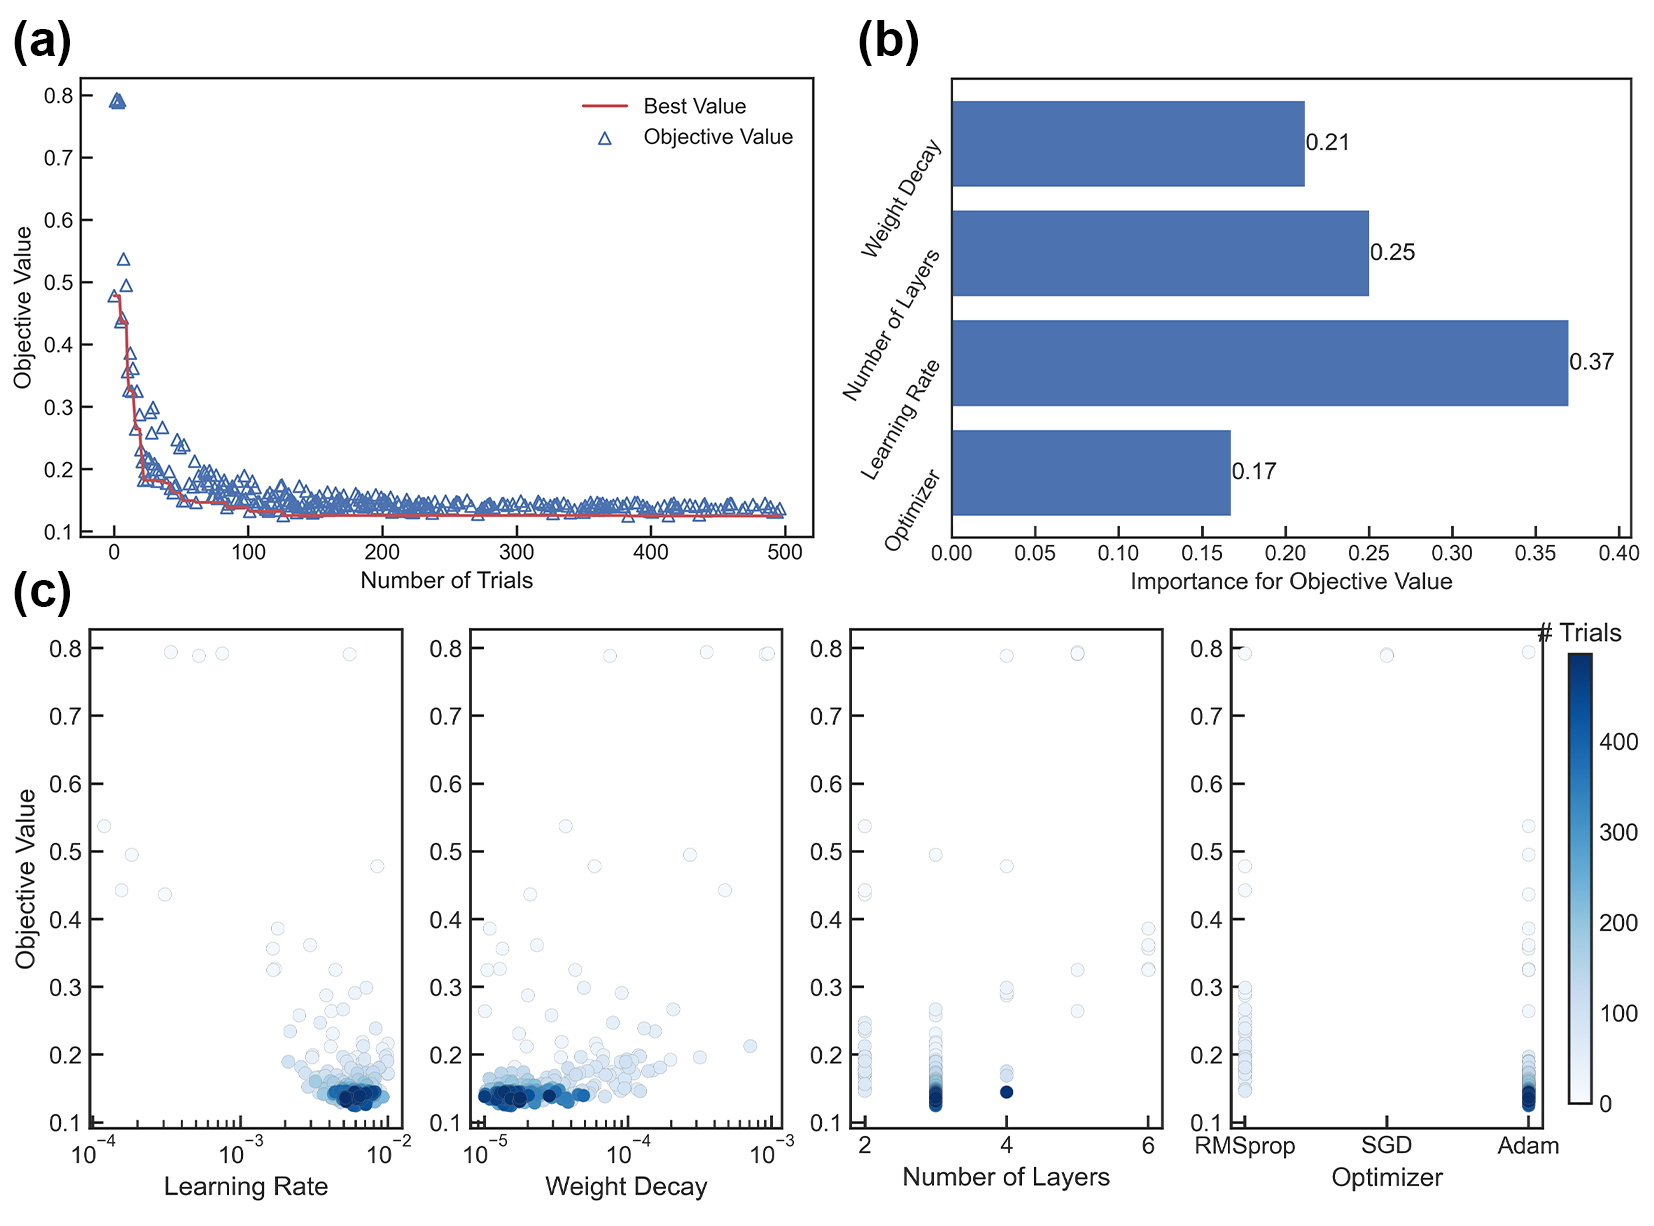
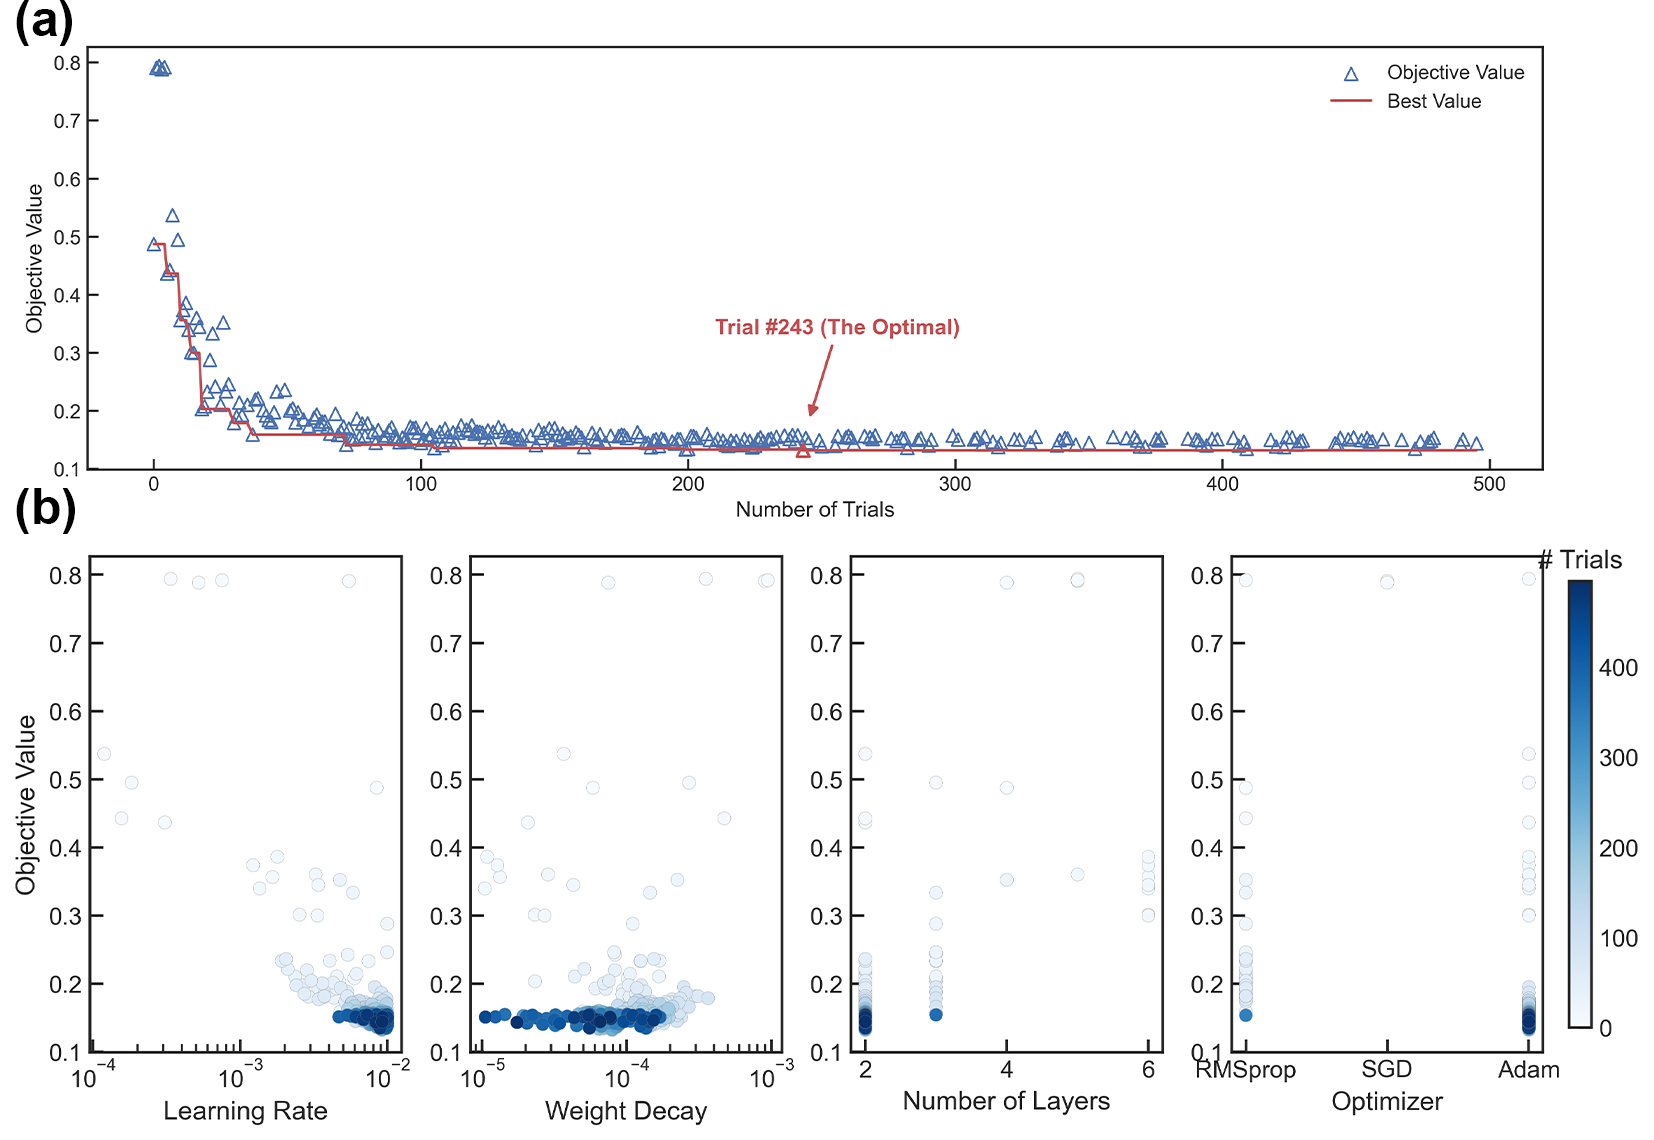
modified:   .DS_Store modified:   README.md modified:   res/demo0_graphical_abstract.png

diff --git a/README.md b/README.md
@@ -1,15 +1,13 @@
 # High-Entropy Materials Design by Integrating the First-Principles Calculations and Machine Learning: a Case Study in the Al-Co-Cr-Fe-Ni System
 
+[![DOI](https://zenodo.org/badge/DOI/10.1007/s44210-024-00041-3.svg)](https://doi.org/10.1007/s44210-024-00041-3)
+
 ## Overview
-The first-principles calculation is widely used in high-entropy materials. However, this approach may consume many computational resources for complex systems, limiting the construction of property maps for the corresponding materials over a full composition range. In this work, the most common Al-Co-Cr-Fe-Ni system (both FCC and BCC) is selected for our investigation. We formulate a materials design strategy that combines first-principles calculation results and machine learning models to establish a robust database of properties (e.g., phase stabilities and elastic constants): starting from unary, binary, ternary, and quaternary, then extending into high-order systems. Analyzing and screening this database can further inspire discovering and designing new high entropy materials. Moreover, the corresponding software was developed to facilitate the use of related persons or institutions.
+High-entropy alloys (HEAs) have drawn significant attention within the materials science community due to their exceptional properties. However, optimizing compositions in these alloys is challenging due to their vast compositional space. Conventional computational methods are constrained by high computational costs, limiting rapid database expansion. In this study, we propose a novel approach that integrates first-principles calculations with machine learning to efficiently explore the Al-Co-Cr-Fe-Ni system, encompassing both face-centered cubic (FCC) and body-centered cubic (BCC) phases. Our approach establishes comprehensive relationships among compositions, phase stability, and elastic properties at 0 K. A comprehensive database and software for this system are developed. Analysis of this database reveals the presence of FCC and BCC phases under specific valence electron concentration (VEC) criteria. Through screening and statistical analysis using a performance index, we quantitatively investigate the brittleness and ductility, facilitating the identification of optimal HEAs candidates. This work enhances our understanding of the HEA properties, offering a promising pathway for materials design and optimization.
 
 ## Workflow
-* Above the iceberg:  
-The training data of properties (e.g., phase stabilities and mechanical properties) is obtained by the first-principles calculation. The rules lying behind the data can be discovered by machine learning.
-* Below the iceberg:  
-The knowledge of HEA over a full composition range can be obtained from well-trained model, and the corresponding software is developed with the knowledge embedded.
 
-    <div align=left><img src='./res/demo0_graphical_abstract.png' alt='' width='700'/></div>
+<div align=left><img src='./res/demo0_graphical_abstract.png' alt='' width='700'/></div>
 
 ## Get Started
 ### Download
@@ -18,69 +16,49 @@ The knowledge of HEA over a full composition range can be obtained from well-tra
 ### Usage Description
 1. Two search modes are available: *Single-Point* and *Advanced*.
 
-    <div align=left><img src='https://raw.githubusercontent.com/aguang5241/HEA_ML/main/res/Fig.7_Software.jpg' alt='' width='700'/></div>
+    <div align=left><img src='./res/Fig.7_Software.jpg' alt='' width='700'/></div>
 
 2. On the *Single-Point* page, you can calculate the predicted properties based on the exact given concentration.
 
-    <div align=left><img src='https://raw.githubusercontent.com/aguang5241/HEA_ML/main/res/single.gif' alt='' width='700'/></div>
+    <div align=left><img src='./res/single.gif' alt='' width='700'/></div>
 
 3. On the *Advanced* page, you can calculate and analyze the predicted properties based on certain given conditions.
 
-    <div align=left><img src='https://raw.githubusercontent.com/aguang5241/HEA_ML/main/res/advanced.gif' alt='' width='700'/></div>
+    <div align=left><img src='./res/advanced.gif' alt='' width='700'/></div>
 
 ## Main Results
 ### Modeling
-* This work uses the latest hyperparameter optimization framework, OPTUNA, to perform automated algorithm-driven ML model tuning. The detailed search space of the hyperparameters involved is listed in the table below.
+* Results of algorithm-driven modeling: (a) optimization history; (b) Optimization results for learning rate, weight decay, number of layers, and optimizers.
 
-    | Objectives | Search space |
-    | :--- | :--- |
-    | Trials number | 0 ~ 500 |
-    | Number of layers | 2 ~ 6 |
-    | Number of nodes | 100 ~ 300 |
-    | Learning rate | 0.0001 ~ 0.01 |
-    | Weight decay | 0.00001 ~ 0.001 |
-    | Optimizer | Adam, SGD, RMSprop |
-
-* Results of algorithm-driven modeling: (a) optimization history; (b) importance plot for difference hyperparameters; and (c) detailed optimization results based on specific hyperparameters.
-
-    <div align=left><img src='https://raw.githubusercontent.com/aguang5241/HEA_ML/main/res/Fig.1_Modeling.jpg' alt='' width='700'/></div>
+    <div align=left><img src='./res/Fig.1_Modeling.jpg' alt='' width='700'/></div>
 
 ### Training
-* The training data of properties (e.g., phase stabilities and mechanical properties) is obtained by the first-principles calculation. The rules lying behind the data can be discovered by machine learning. Analysis of R-values for $C_{11}$ of the BCC with progressive training: (a) unary training and binary testing; (b) unary + binary training and ternary testing; and (c) unary + binary + ternary training and quaternary testing; (d) finalization of the model.
+* A 4-step progressive training approach: (a) unary training and binary testing; (b) unary + binary training and ternary testing; and (c) unary + binary + ternary training and quaternary testing; (d)  Fine-tuning and experimental verifications.
 
-    <div align=left><img src='https://raw.githubusercontent.com/aguang5241/HEA_ML/main/res/Fig.2_Training.jpg' alt='' width='700'/></div>
+    <div align=left><img src='./res/Fig.2_Training.jpg' alt='' width='700'/></div>
 
 ### Prediction
-* The knowledge of HEA over a full composition range can be obtained from well-trained model, and the corresponding software is developed with the knowledge embedded. The predicted phase stabilities and elastic constants of the *FCC and BCC binary systems* are shown below: (a)  $\Delta H^{f}$ of FCC; (b) $\Delta H^{f}$ of BCC; (c) $C_{ij}$ of FCC; and (d) $C_{ij}$ of BCC.
+* The relationship between the VEC and $\Delta H_{f}^{FCC-BCC}$: (a) phase stability, (b) configurational entropy, and (c) statistical frequency of FCC and BCC.
 
-    <div align=left><img src='https://raw.githubusercontent.com/aguang5241/HEA_ML/main/res/Fig.3_Binary.jpg' alt='' width='700'/></div>
+    <div align=left><img src='./res/Fig.3_VEC_Hf_S.jpg' alt='' width='700'/></div>
 
-* The VEC is defined as follows: \
-$VEC=\sum C_ {i}(VEC)_ {i}$, \
-where $C_ {i}$ and $(VEC)_ {i}$ stand for the atomic fraction and VEC value of element $i$, respectively. The corresponding VEC values of each element are listed in the table below.
-    | Element | VEC |
-    | :--- | :--- |
-    | Al | 3 |
-    | Co | 9 |
-    | Cr | 6 |
-    | Fe | 8 |
-    | Ni | 10 |
-* Prediction results in terms of the *VEC (see the definition above)* for FCC (a1-a8) and BCC (b1-b8): (a1/b1) $\Delta H^{f}$; (a2/b2) Bulk modulus; (a3/b3) Shear modulus; (a4/b4) Young’s modulus; (a5/b5) P-wave modulus; (a6/b6) Pugh’s ratio; (a7/b7) Poisson's ratio; and (a8/b8) Vickers hardness.
 
-    <div align=left><img src='https://raw.githubusercontent.com/aguang5241/HEA_ML/main/res/Fig.4_VEC.jpg' alt='' width='700'/></div>
+* The predicted values of bulk moduli, shear moduli, and Pugh’s ratio for the whole composition range are shown in figures (a), (b), and (c), respectively, while figures (d), (e), and (f) show the elastic properties within the criteria of HEAs (i.e., $\Delta S_{conf}/R ≥ 1.5$).
+
+    <div align=left><img src='./res/Fig.4_VEC_BG.jpg' alt='' width='700'/></div>
 
 ### Analysis & Screening
-* Analysis with an emphasis on bulk modulus (*B*), shear modulus (*G*), and Pugh’s ratio (*k*) with an elemental concentration of each range from 5 to 35 at. %: Univariate and bivariate distribution plots for the (a) FCC and (b) BCC. Mechanical properties vs. phase stabilities plots of the (c) FCC and (d) BCC
+* Screening and analysis results within the (a) top 5% $P_{index}$, (b) top 10% $P_{index}$, (c) top 15% $P_{index}$, and (d) top 20% $P_{index}$. (e) The number of FCC and BCC candidates. Statistical distribution of (f) bulk moduli, (g) shear moduli, and (d) concentrations of Al, Fe, Co, Cr, and Ni under the top 20% $P_{index}$.
 
-    <div align=left><img src='https://raw.githubusercontent.com/aguang5241/HEA_ML/main/res/Fig.5_Analysis.jpg' alt='' width='700'/></div>
+    <div align=left><img src='./res/Fig.5_HEA_idx1.jpg' alt='' width='700'/></div>
 
-* 100 candidates with the highest bulk modulus after screening for both (a) FCC and (b) BCC, sorted by phase stabilities. Screening criteria: (1) the concentration of each element in the range of 5 to 35 at. %; and (2) $\Delta H^{f}$ less than or equal to zero.
+* Evolution of the HEA candidates: (a) number of the FCC and BCC candidates; (b) bulk moduli; (c) shear moduli; (d) concentration of Al; (e) concentration of Fe; (f) concentration of Co; (g) concentration of Cr; (h) concentration of Ni.
     
-    <div align=left><img src='https://raw.githubusercontent.com/aguang5241/HEA_ML/main/res/Fig.6_Screening.jpg' alt='' width='700'/></div>
+    <div align=left><img src='./res/Fig.6_HEA_idx2.jpg' alt='' width='700'/></div>
 
 
-## References
-1. G. Liu, S. Yang, Y. Zhong. High-entropy materials design by integrating the first-principles calculations and machine learning: a case study in the Al-Co-Cr-Fe-Ni system. (2023, submitted, **this work**)
-2. S. Yang, Y. Zhong, Ab Initio Modeling of fcc Fe-Co-Cr-Ni High Entropy Alloys with Full Composition Range, Journal of Phase Equilibria and Diffusion 42(5) (2021) 656-672.
+## Cite Us
+1. Liu, Guangchen, Songge Yang, and Yu Zhong. "High-Entropy Materials Design by Integrating the First-Principles Calculations and Machine Learning: A Case Study in the Al-Co-Cr-Fe-Ni System." High Entropy Alloys & Materials (2024): 1-14. (**this work**)
+2. Our HEA-ML database for high entropy alloys elastic property predictions was reported in [JOM](https://static.asminternational.org/amp/202303/21/).
 3. S. Yang, G. Liu, Y. Zhong, Revisit the VEC criterion in high entropy alloys (HEAs) with high-throughput ab initio calculations: A case study with Al-Co-Cr-Fe-Ni system, Journal of Alloys and Compounds  (2022) 165477.
-4. Our HEA-ML database for high entropy alloys elastic property predictions was reported in [JOM](https://static.asminternational.org/amp/202303/21/)
+4. S. Yang, Y. Zhong, Ab Initio Modeling of fcc Fe-Co-Cr-Ni High Entropy Alloys with Full Composition Range, Journal of Phase Equilibria and Diffusion 42(5) (2021) 656-672.
